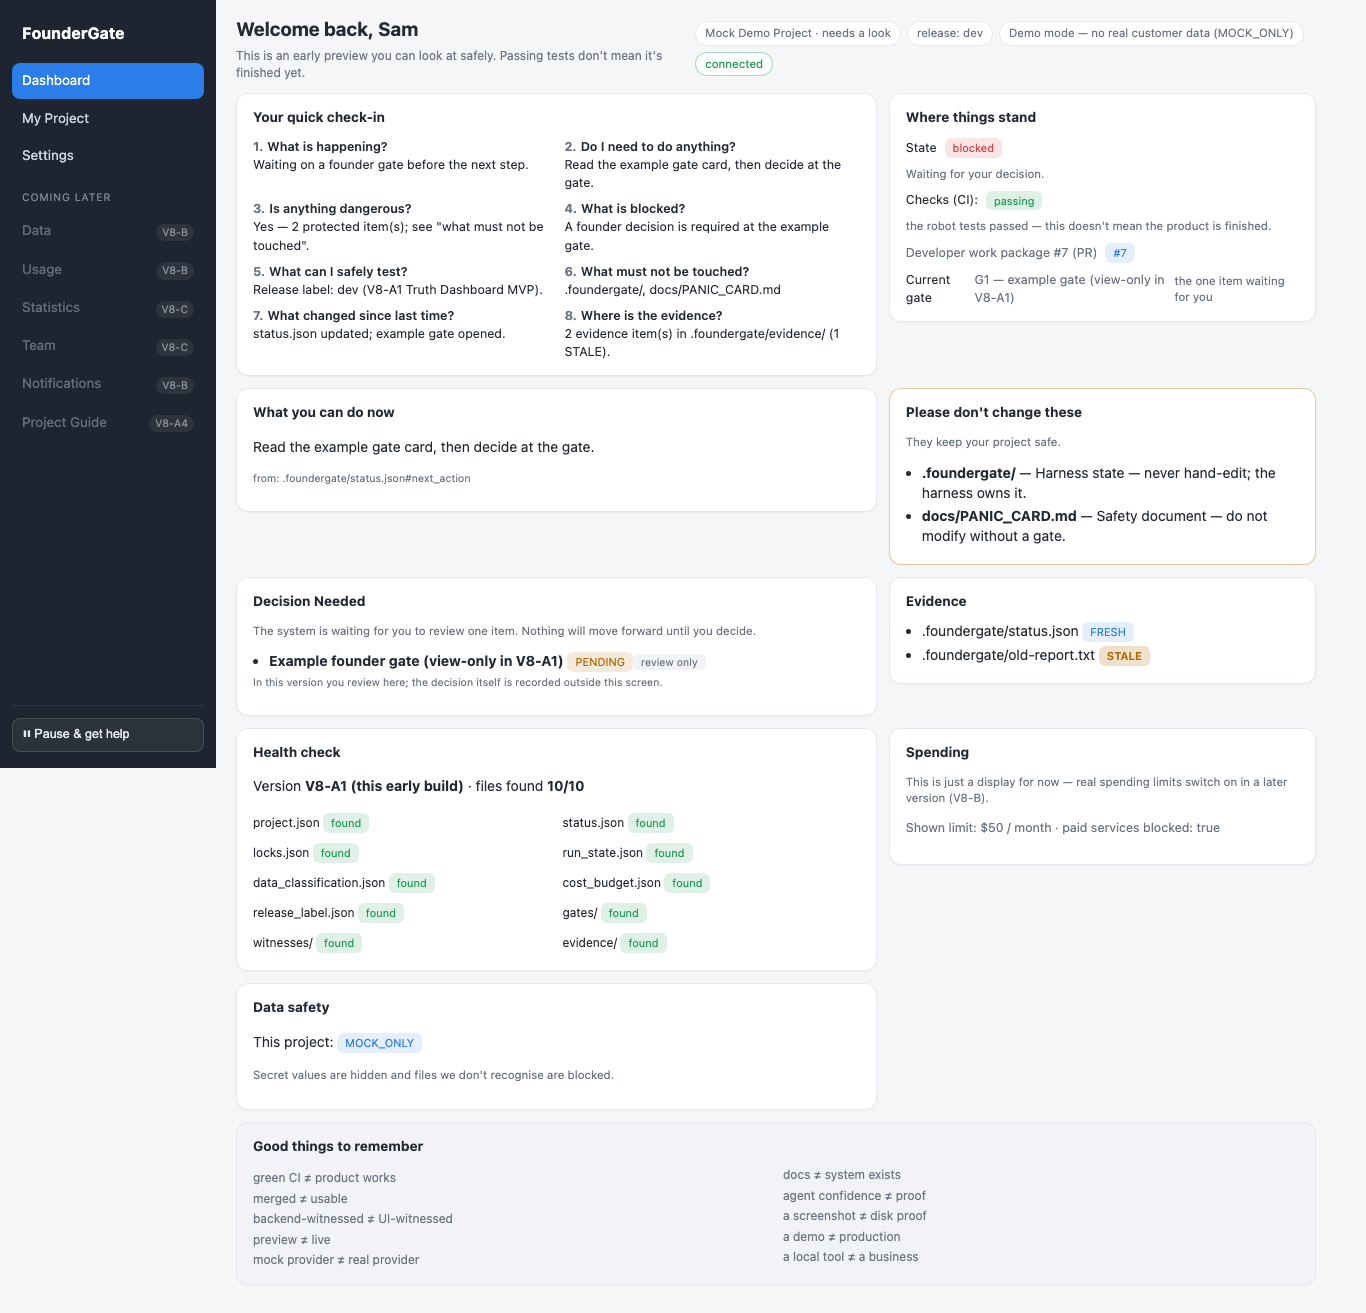
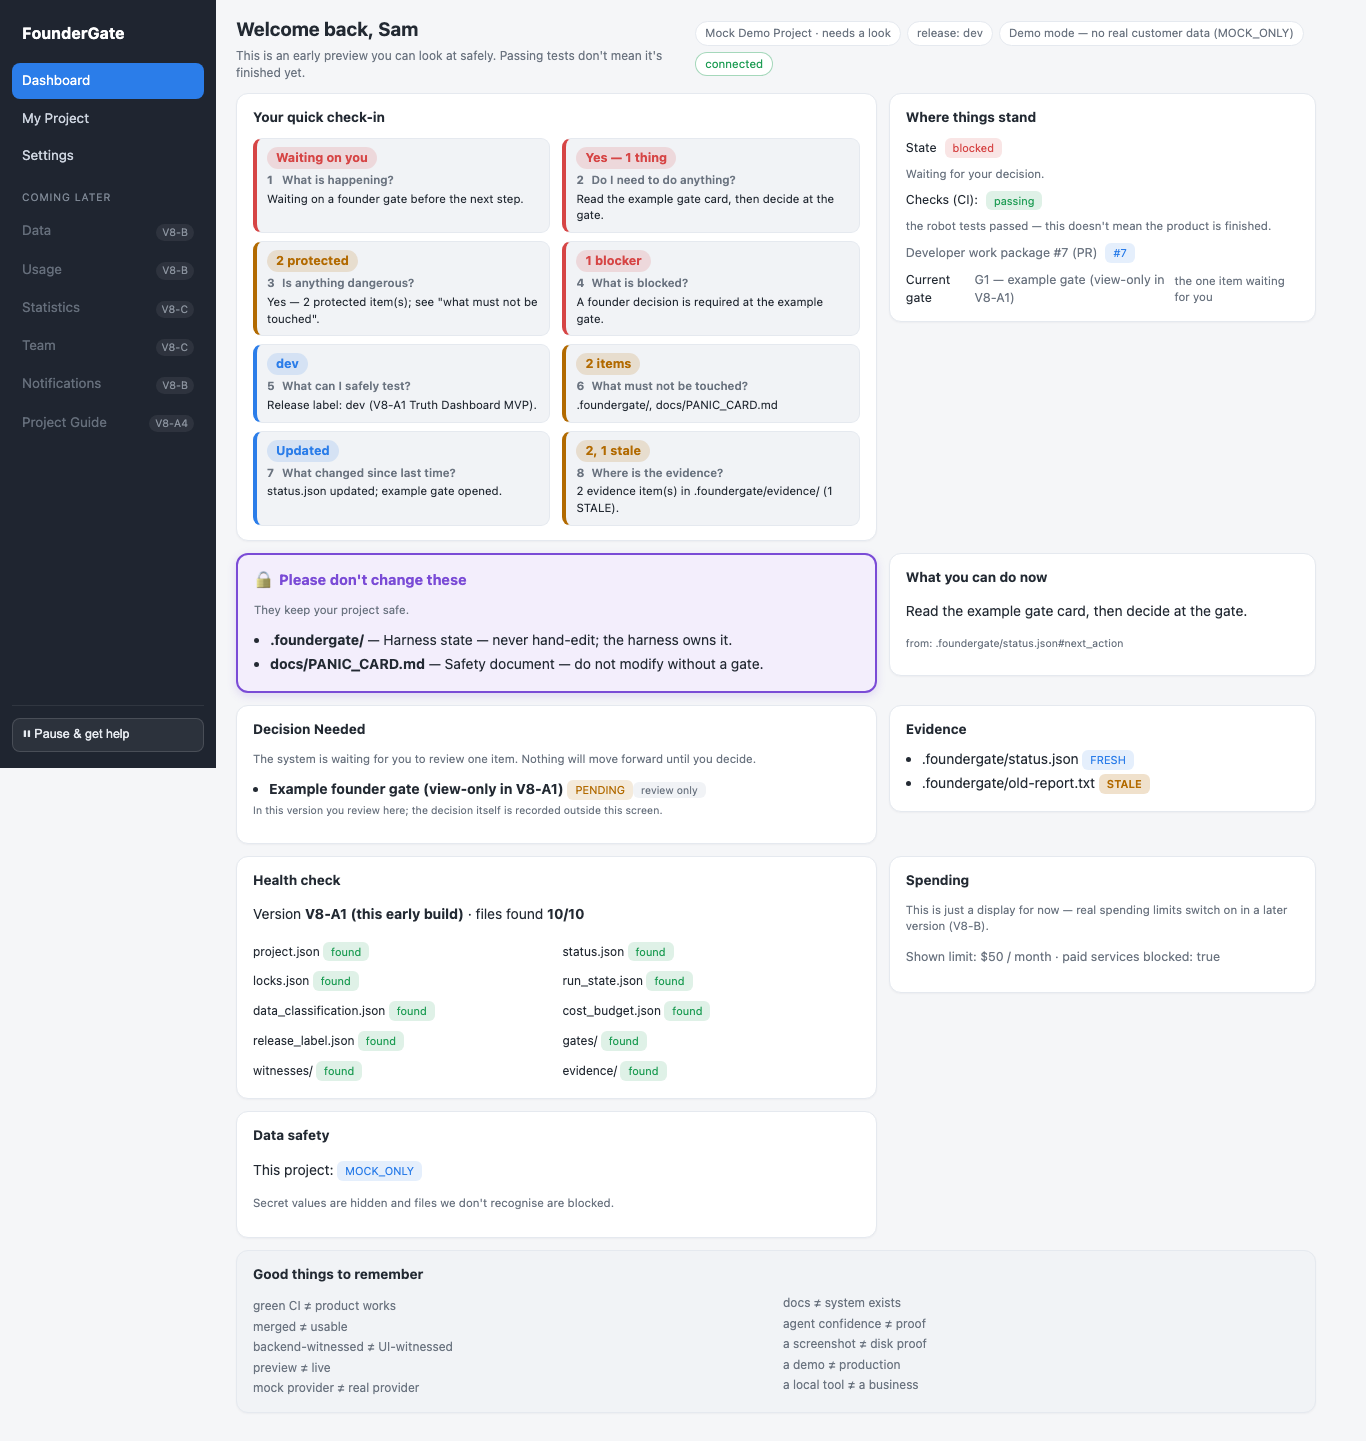
VA-REPAIR D1+D5: dashboard scanability + raised do-not-touch (stranger Run-1)
D1 (Step-1 root cause — 12+ min to read 8 answers): the 8 questions are now
answer-first, colour-coded cards. Each leads with a status chip you read at a
glance (Waiting on you / 2 protected / 1 blocker / dev / Updated / …), derived
ONLY from real model fields (never invented, Law 54); the question is a small
label; the full answer is secondary detail; a colour-matched left accent per
tone. Anti-repeat: src/v8a1/dashboard/scan-budget.selftest.mjs (8 distinct
colour-coded answer elements + machine-checkable role/aria-label/data-answer
markers) + smoke geometry extended (8 chips + do-not-touch above the fold).

D5 (Step-7): the "Please don't change these" card is raised (2px lock-colour
border, tinted, shadow, 🔒 icon) and moved higher; smoke asserts it sits above
the fold at 1366x768.

Presentation only; no reader/enforcement change; UI language law upheld.
Suite 37/37.

diff --git a/src/v8a1/dashboard/styles.css b/src/v8a1/dashboard/styles.css
@@ -2,10 +2,11 @@
   --bg: #f5f6f8; --sidebar: #1f2530; --sidebar-text: #cdd4df; --sidebar-active: #2b7de9;
   --panel: #ffffff; --panel2: #f1f3f6; --text: #232a33; --muted: #6b7480; --line: #e5e9ef;
   --accent: #2b7de9; --ok: #1f9d55; --bad: #d64545; --warn: #b26a00; --soft-warn: #f6e9cf;
+  --lock: #7a4bd6; --lock-tint: #f3eefc;
 }
 @media (prefers-color-scheme: dark) {
   :root { --bg:#12151a; --sidebar:#0d1015; --sidebar-text:#aeb6c2; --panel:#1a1e25; --panel2:#20252e;
-    --text:#e6e9ee; --muted:#94a0b0; --line:#2a2f38; --soft-warn:#3a2f16; }
+    --text:#e6e9ee; --muted:#94a0b0; --line:#2a2f38; --soft-warn:#3a2f16; --lock:#b79bf0; --lock-tint:#241a35; }
 }
 :root[data-theme="light"] { --bg:#f5f6f8; --panel:#fff; --text:#232a33; }
 :root[data-theme="dark"] { --bg:#12151a; --panel:#1a1e25; --text:#e6e9ee; }
@@ -52,13 +53,36 @@ body { background: var(--bg); color: var(--text);
 .card.remember { grid-column: 1 / -1; background: var(--panel2); }
 .card.soft-warn { background: var(--panel); border-color: rgba(178,106,0,.35); }
 
-/* Questions — tight two-column grid; Q1–4 sit in the top rows (above the fold) */
-.qgrid { list-style: none; margin: 0; padding: 0; display: grid; grid-template-columns: 1fr 1fr; gap: 8px 16px; }
-.qgrid li { margin: 0; }
-.q { font-weight: 600; font-size: 12.5px; }
-.q .n { color: var(--muted); font-weight: 700; margin-right: 4px; }
-.a { font-size: 12.5px; color: var(--text); }
-.a.unknown { color: var(--warn); }
+/* D5 — the "don't change these" card is raised, distinctly coloured, and higher,
+   so a non-developer spots it at a glance. */
+.card.protect { border: 2px solid var(--lock); background: var(--lock-tint);
+  box-shadow: 0 3px 10px rgba(122,75,214,.18); }
+.card.protect h2 { display: flex; align-items: center; gap: 6px; color: var(--lock); font-size: 14.5px; }
+.card.protect .protect-icon { font-size: 15px; }
+.card.protect #do-not-touch-list b { color: var(--text); }
+
+/* D1 — Questions as answer-first, colour-coded cards. Each card leads with a
+   status chip you can read instantly; the question is a small label; the full
+   answer is secondary detail. */
+.qgrid { list-style: none; margin: 0; padding: 0; display: grid; grid-template-columns: 1fr 1fr; gap: 8px 12px; }
+.qcard { margin: 0; padding: 8px 10px; border: 1px solid var(--line); border-radius: 9px; background: var(--panel2);
+  border-left: 4px solid var(--muted); }
+.qcard .qchip { display: inline-block; font-weight: 700; font-size: 12.5px; padding: 2px 9px; border-radius: 999px; margin-bottom: 3px; }
+.qcard .qlabel { font-size: 11.5px; color: var(--muted); font-weight: 600; }
+.qcard .qlabel .n { display: inline-block; min-width: 15px; color: var(--muted); font-weight: 700; }
+.qcard .qdetail { font-size: 11.5px; color: var(--text); margin-top: 2px; }
+.qcard .qdetail.unknown { color: var(--warn); }
+/* chip + left-accent colour per tone */
+.qchip.attention { background: rgba(214,69,69,.15); color: var(--bad); }
+.qchip.caution { background: rgba(178,106,0,.16); color: var(--warn); }
+.qchip.ok { background: rgba(31,157,85,.16); color: var(--ok); }
+.qchip.info { background: rgba(43,125,233,.14); color: var(--accent); }
+.qchip.unknown { background: rgba(107,116,128,.16); color: var(--muted); }
+.qcard:has(.qchip.attention) { border-left-color: var(--bad); }
+.qcard:has(.qchip.caution) { border-left-color: var(--warn); }
+.qcard:has(.qchip.ok) { border-left-color: var(--ok); }
+.qcard:has(.qchip.info) { border-left-color: var(--accent); }
+.qcard:has(.qchip.unknown) { border-left-color: var(--muted); }
 .source { font-size: 10.5px; color: var(--muted); margin-top: 1px; }
 
 .statuslist { display: flex; flex-direction: column; gap: 8px; }

diff --git a/src/v8a1/dashboard/app.js b/src/v8a1/dashboard/app.js
@@ -51,20 +51,34 @@ function render(view) {
   cc.textContent = view.header.connected ? "connected" : "not connected";
   cc.className = "chip " + (view.header.connected ? "on" : "off");
 
-  // Questions (tight 2-col grid; each carries data-q for the fold check)
+  // Questions (D1: answer-first cards — a colour-coded status chip you can read at
+  // a glance, the question as a small label, the full answer as secondary detail).
+  // Each card is a distinct labelled element (role/aria-label + data-answer) so the
+  // scan-budget guard can prove all 8 answers are individually scannable.
   $("questions-title").textContent = view.questions.title;
   const ql = $("questions-list");
   ql.innerHTML = "";
   for (const item of view.questions.items) {
     const li = document.createElement("li");
+    li.className = "qcard";
     li.setAttribute("data-q", String(item.n));
-    const q = document.createElement("div");
-    q.className = "q";
-    q.innerHTML = `<span class="n">${item.n}.</span>${item.q}`;
-    const a = document.createElement("div");
-    a.className = "a" + (item.unknown ? " unknown" : "");
-    a.textContent = item.unknown ? `${item.a} — we can't see this yet` : item.a;
-    li.append(q, a);
+    li.setAttribute("role", "group");
+    li.setAttribute("aria-label", `${item.q} ${item.chip.label}`);
+
+    const chip = document.createElement("div");
+    chip.className = `qchip ${item.chip.tone}`;
+    chip.setAttribute("data-answer", String(item.n)); // the at-a-glance answer element
+    chip.textContent = item.chip.label;
+
+    const label = document.createElement("div");
+    label.className = "qlabel";
+    label.innerHTML = `<span class="n">${item.n}</span>${item.q}`;
+
+    const detail = document.createElement("div");
+    detail.className = "qdetail" + (item.unknown ? " unknown" : "");
+    detail.textContent = item.unknown ? `${item.a} — we can't see this yet` : item.a;
+
+    li.append(chip, label, detail);
     ql.appendChild(li);
   }
 

diff --git a/src/v8a1/dashboard/index.html b/src/v8a1/dashboard/index.html
@@ -56,16 +56,17 @@
             </div>
           </section>
 
+          <!-- D5: raised, distinct, higher — a stranger should spot "don't touch" instantly -->
+          <section class="card protect" id="do-not-touch">
+            <h2><span class="protect-icon" aria-hidden="true">🔒</span> <span id="dnt-title">Please don't change these</span></h2>
+            <p class="hint" id="dnt-subtitle"></p>
+            <ul id="do-not-touch-list"></ul>
+          </section>
+
           <section class="card" id="needs-you">
             <h2 id="needs-you-title">What you can do now</h2>
             <p id="needs-you-text"></p>
             <p class="source" id="needs-you-source"></p>
-          </section>
-
-          <section class="card soft-warn" id="do-not-touch">
-            <h2 id="dnt-title">Please don't change these</h2>
-            <p class="hint" id="dnt-subtitle"></p>
-            <ul id="do-not-touch-list"></ul>
           </section>
 
           <section class="card" id="decision-card">
